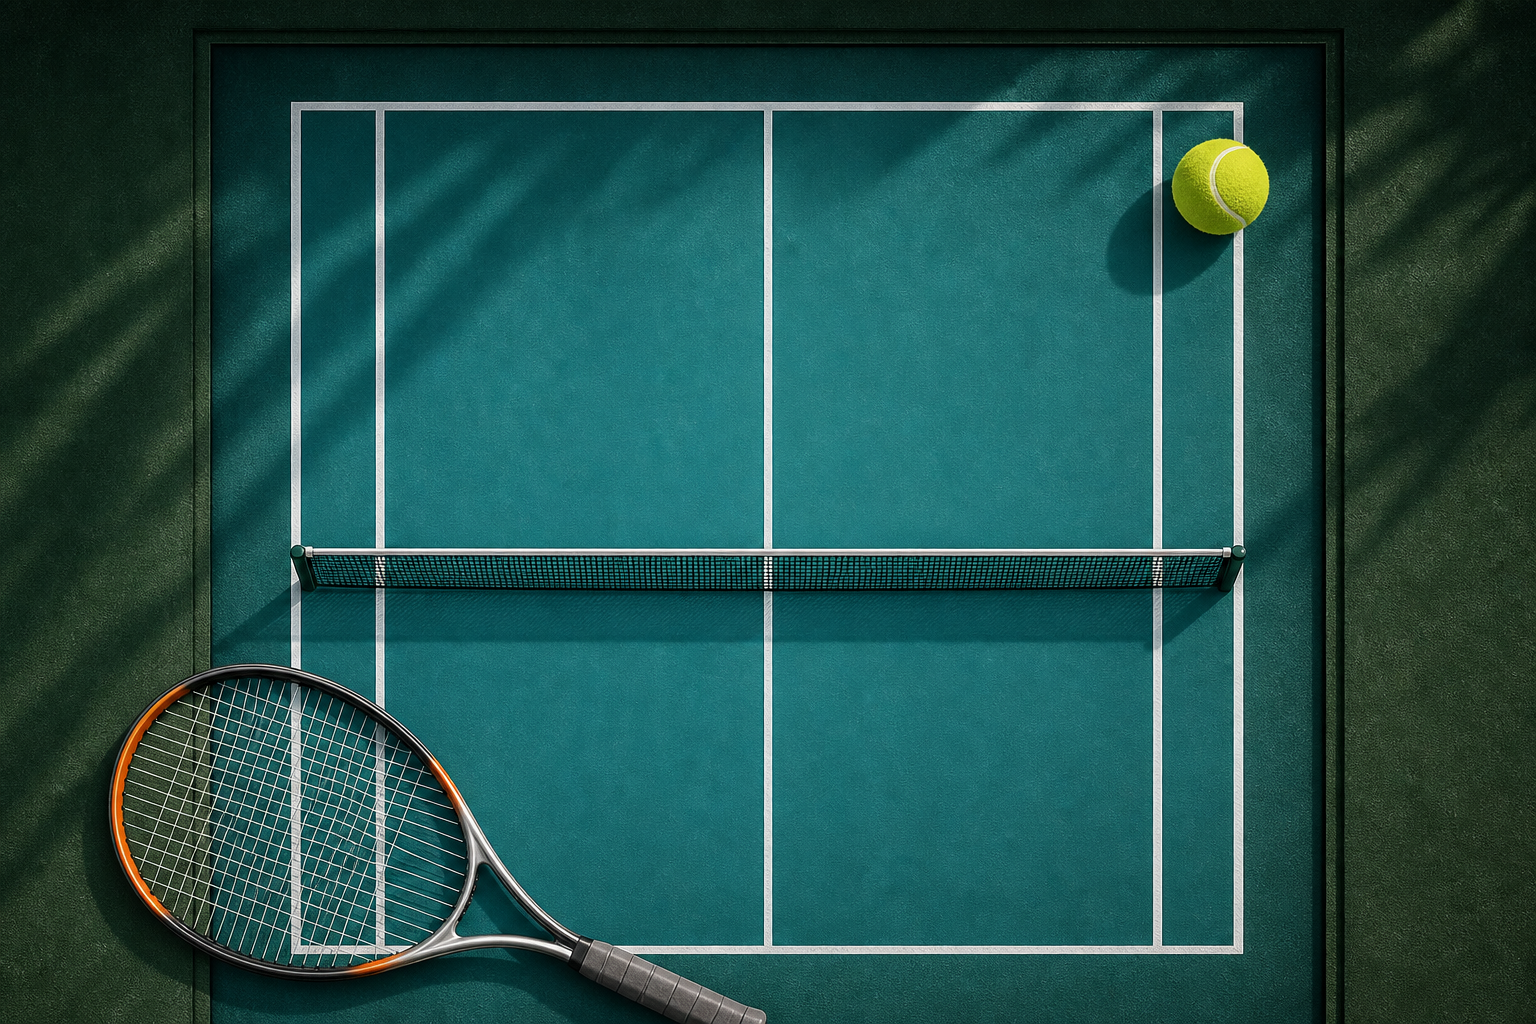
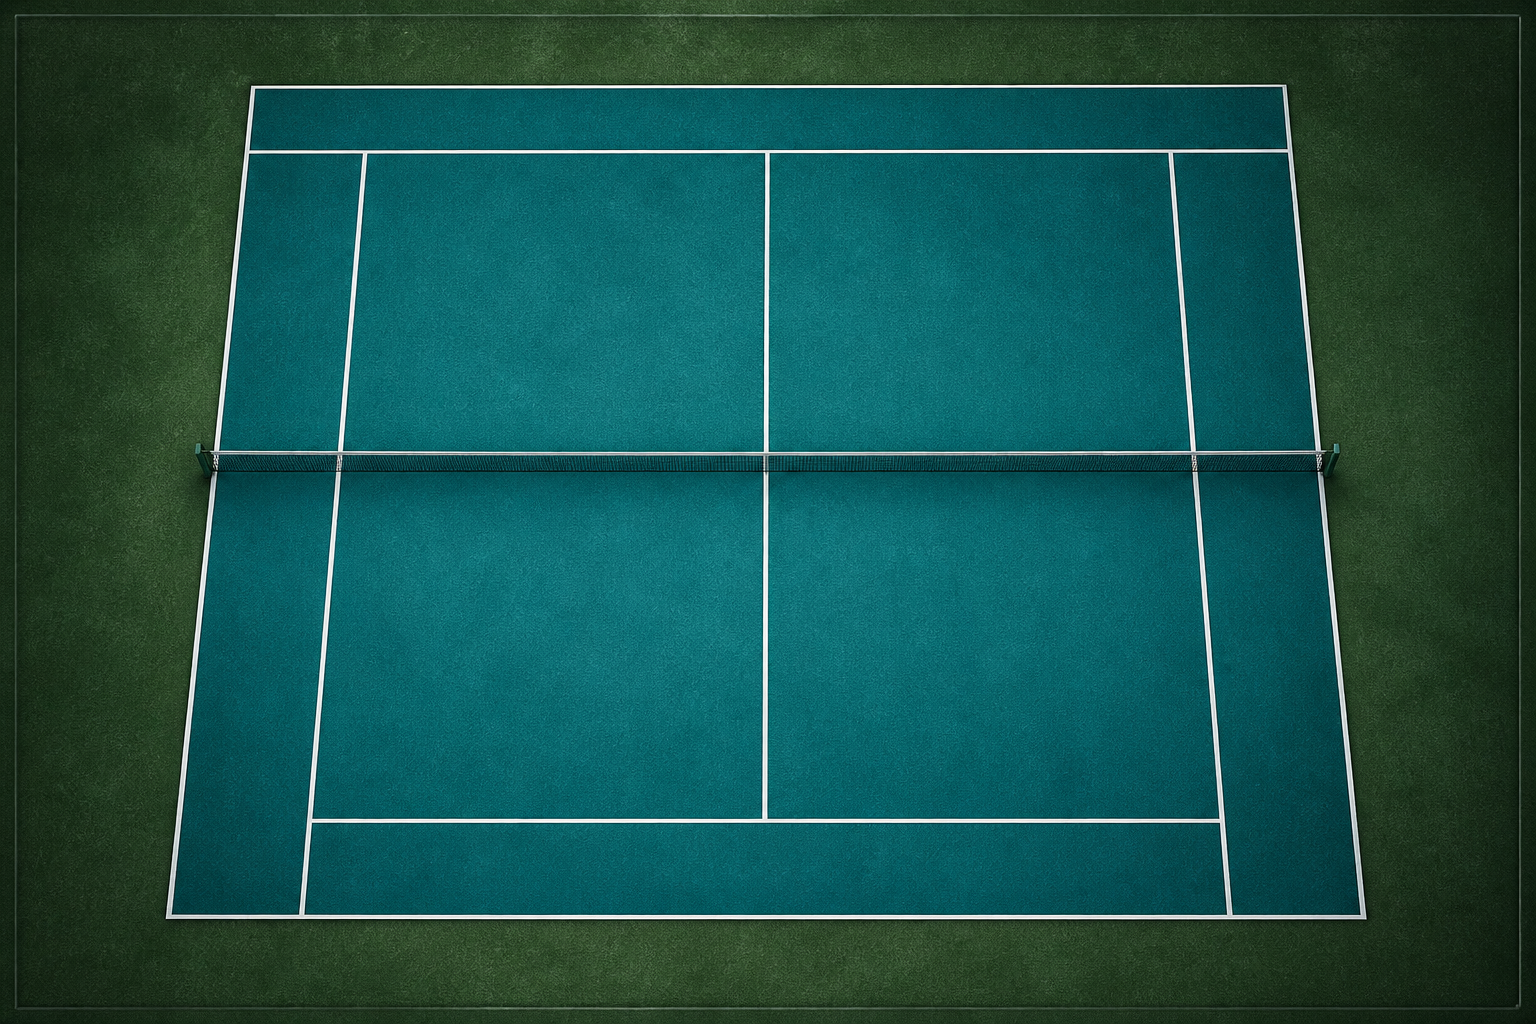
build num 68

diff --git a/lib/screens/home_screen.dart b/lib/screens/home_screen.dart
@@ -226,6 +226,7 @@ class _HomeScreenState extends State<HomeScreen> {
   }
 
   Widget _buildAtmosphericBackground() {
+    final screenWidth = MediaQuery.of(context).size.width;
     return IgnorePointer(
       child: Stack(
         children: [
@@ -256,6 +257,27 @@ class _HomeScreenState extends State<HomeScreen> {
                   stops: const [0.0, 0.5, 1.0],
                 ),
               ),
+            ),
+          ),
+          // Tennis ball peeking from the top-right corner.
+          Positioned(
+            top: MediaQuery.of(context).padding.top + 64,
+            right: -18,
+            child: Image.asset(
+              'assets/images/tennis_ball.png',
+              width: 86,
+              height: 86,
+              fit: BoxFit.contain,
+            ),
+          ),
+          // Racket head emerging from the bottom-left corner.
+          Positioned(
+            left: -screenWidth * 0.18,
+            bottom: -screenWidth * 0.14,
+            child: Image.asset(
+              'assets/images/tennis_racket.png',
+              width: screenWidth * 0.85,
+              fit: BoxFit.contain,
             ),
           ),
         ],
